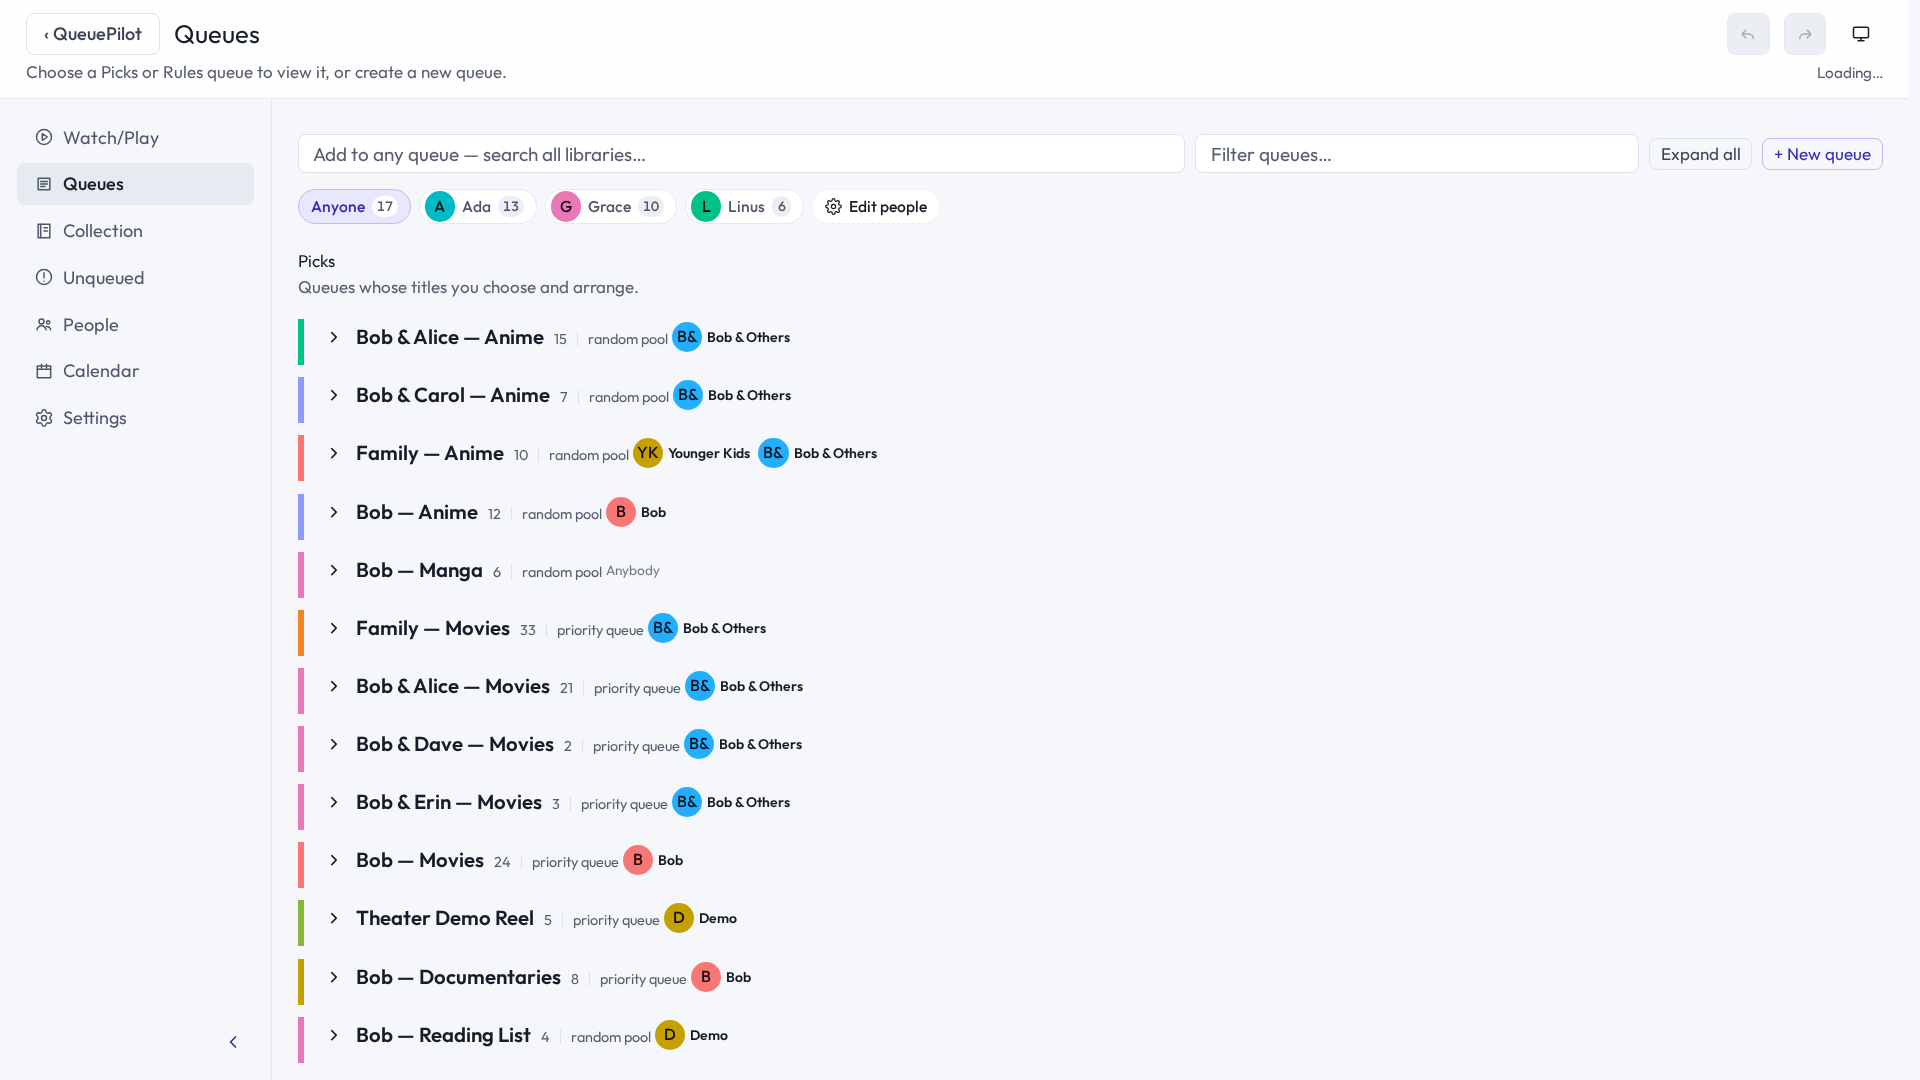
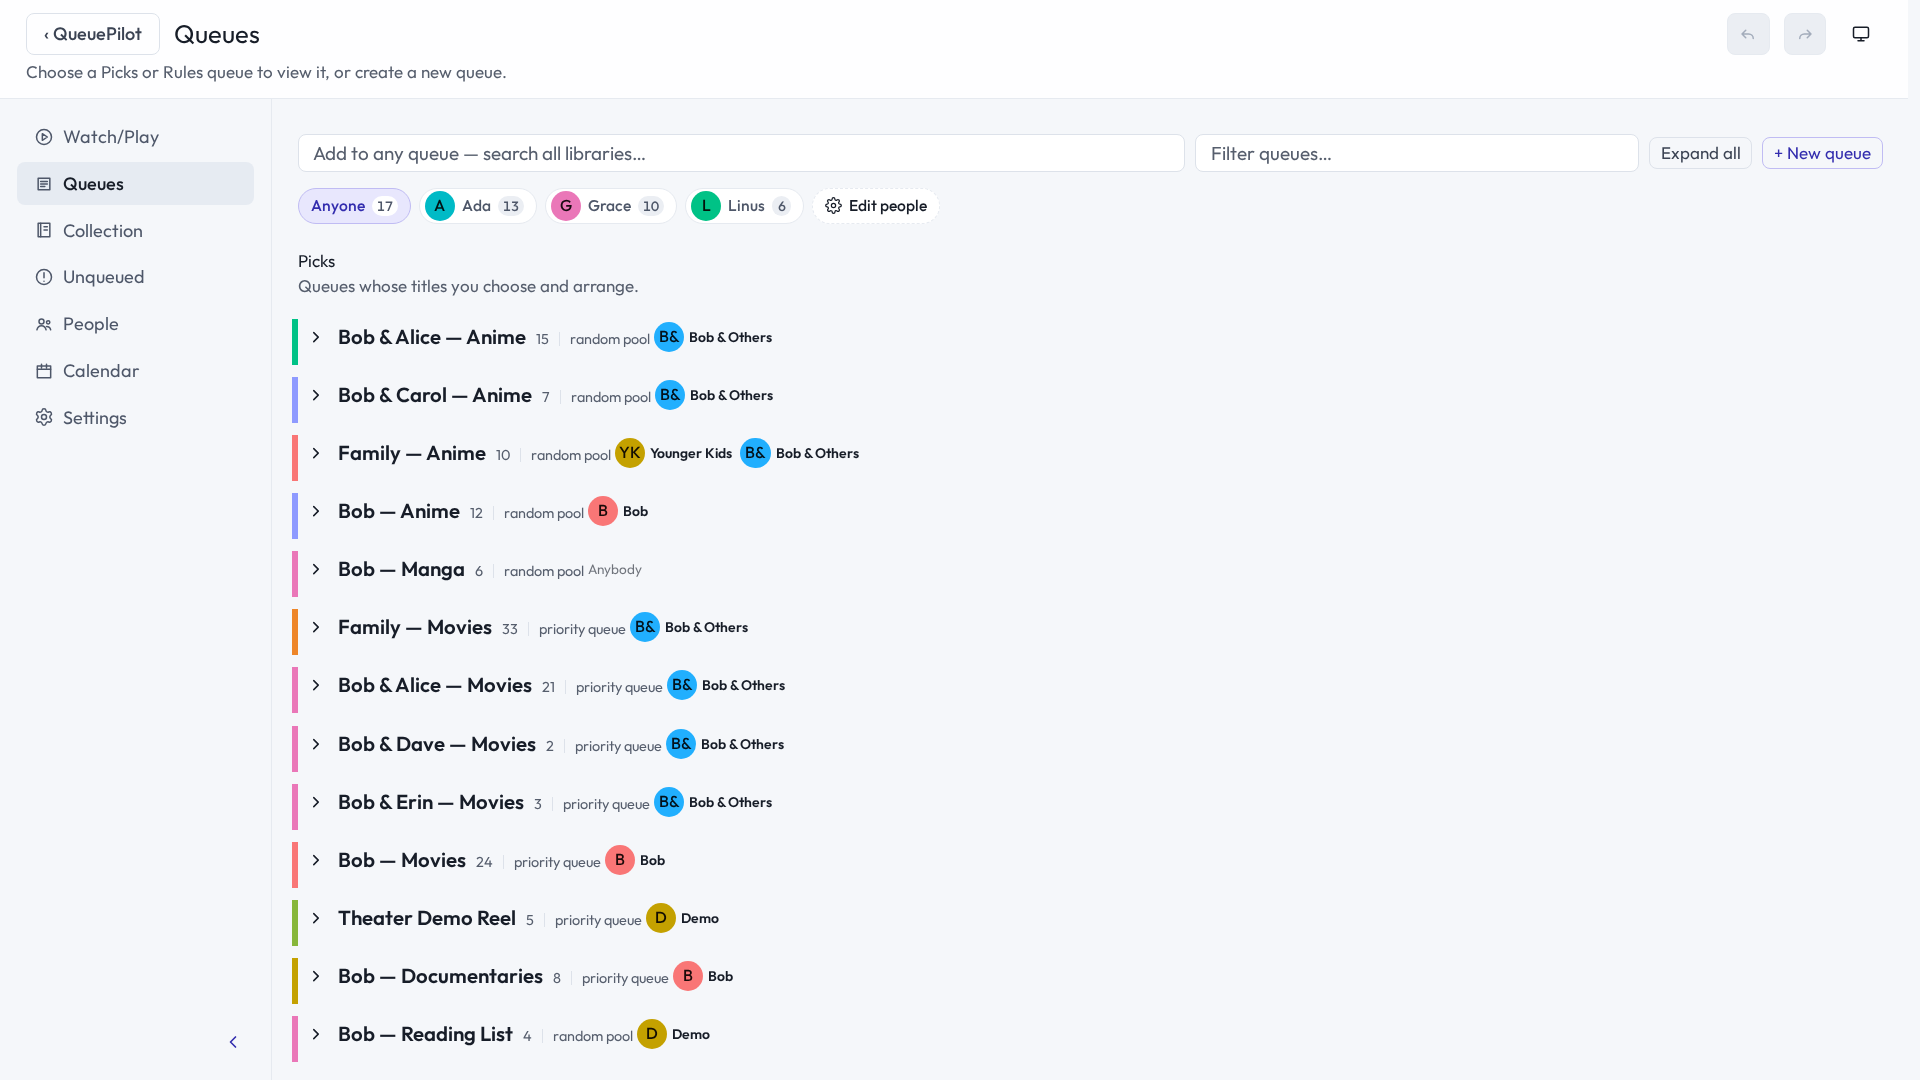
Keep queue color accents outside header layout and verify visible counts

diff --git a/e2e/smoke/queue-colors.spec.ts b/e2e/smoke/queue-colors.spec.ts
@@ -3,25 +3,34 @@ import { promises as fs } from 'node:fs';
 import { smokeServers } from './ports.js';
 
 test('queue shelves retain their colors after reload and use the shared categorical palette', async ({ page }, testInfo) => {
+  const revalidated = page.waitForResponse((response) => response.url().includes('/api/queues?fresh=1'));
   await page.goto(`${smokeServers.landing}/queues`);
+  await revalidated;
+  await page.evaluate(() => document.fonts.ready);
+  await page.waitForFunction(() => { const status = document.querySelector('#status'); return (!status || !status.textContent) && !document.querySelector('#revalidating'); });
   const shelves = page.locator('.shelf[data-set]');
   await expect(shelves.first()).toBeVisible();
+  const firstCount = shelves.first().locator('h2 .sec');
+  await expect(firstCount).toBeInViewport();
+  const countBounds = await firstCount.boundingBox();
+  if (!countBounds) throw new Error('Missing queue count');
+  expect(countBounds.x + countBounds.width).toBeLessThanOrEqual(page.viewportSize()!.width);
   const colors = await shelves.evaluateAll((elements) => elements.map((element) => ({
-    id: element.getAttribute('data-set'), color: getComputedStyle(element).borderInlineStartColor,
-    width: getComputedStyle(element).borderInlineStartWidth,
+    id: element.getAttribute('data-set'), color: getComputedStyle(element).boxShadow,
   })));
   expect(colors.length).toBeGreaterThan(1);
-  expect(colors.every((entry) => entry.width === '6px')).toBe(true);
+  expect(colors.every((entry) => entry.color.endsWith('-6px 0px 0px 0px'))).toBe(true);
   expect(new Set(colors.map((entry) => entry.color)).size).toBeGreaterThan(1);
   await fs.mkdir('../docs/images/queue-colors', { recursive: true });
   if (testInfo.project.name === 'chromium-wide') {
+    const titleBounds = await shelves.first().locator('.lbl').boundingBox();
     await page.screenshot({ path: '../docs/images/queue-colors/after.png' });
     await shelves.evaluateAll((elements) => elements.forEach((element) => {
       const html = element as HTMLElement;
       html.dataset.originalStyle = html.getAttribute('style') || '';
-      html.style.removeProperty('border-inline-start');
-      html.style.removeProperty('padding-inline-start');
+      html.style.removeProperty('box-shadow');
     }));
+    expect(await shelves.first().locator('.lbl').boundingBox()).toEqual(titleBounds);
     await page.screenshot({ path: '../docs/images/queue-colors/before.png' });
     await shelves.evaluateAll((elements) => elements.forEach((element) => {
       element.setAttribute('style', (element as HTMLElement).dataset.originalStyle || '');
@@ -30,8 +39,7 @@ test('queue shelves retain their colors after reload and use the shared categori
   await page.reload();
   await expect(shelves.first()).toBeVisible();
   const after = await shelves.evaluateAll((elements) => elements.map((element) => ({
-    id: element.getAttribute('data-set'), color: getComputedStyle(element).borderInlineStartColor,
-    width: getComputedStyle(element).borderInlineStartWidth,
+    id: element.getAttribute('data-set'), color: getComputedStyle(element).boxShadow,
   })));
   expect(after).toEqual(colors);
 });

diff --git a/web/src/views/QueuesView.tsx b/web/src/views/QueuesView.tsx
@@ -281,8 +281,7 @@ function RulesShelf({
       className={`shelf rules-shelf${isCollapsed ? " collapsed" : ""}`}
       data-provider={channel.provider_kind || undefined}
       style={{
-        borderInlineStart: `6px solid var(--color-categorical-${getCategoricalIndex(channel.id)}-solid)`,
-        paddingInlineStart: 12,
+        boxShadow: `-6px 0 0 var(--color-categorical-${getCategoricalIndex(channel.id)}-solid)`,
       }}
       data-set={channel.id}
       hidden={isHiddenByFilter}
@@ -734,8 +733,7 @@ function Shelf({
       // Charcuterie. (decision `2026-08-15-a-queue-wears-its-providers-colour`)
       data-provider={providerKind || undefined}
       style={{
-        borderInlineStart: `6px solid var(--color-categorical-${getCategoricalIndex(setId)}-solid)`,
-        paddingInlineStart: 12,
+        boxShadow: `-6px 0 0 var(--color-categorical-${getCategoricalIndex(setId)}-solid)`,
       }}
       data-set={setId}
       hidden={isHiddenByFilter}
